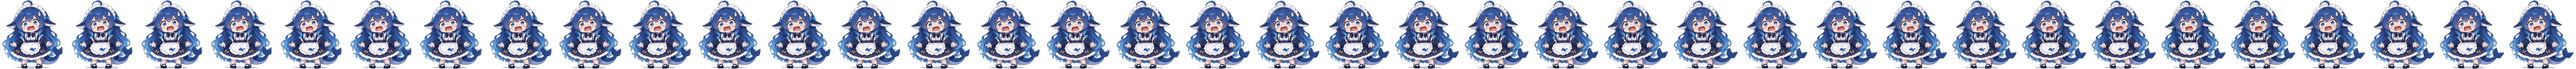
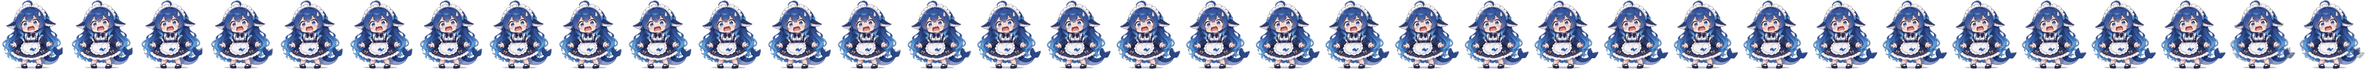
v1.9.5: score loop windows by seam-to-motion ratio at sprite scale
Measurement showed the loop 'pop' (first-vs-last frame diff 17-23)
exceeded the actual motion amplitude (14-20) on normal/daze clips -
each cycle visibly snapped. Now all candidate windows are scored at
96px sprite scale; calm picks the lowest seam/motion ratio, and when
a seam still exceeds motion the last two frames get a baked 60ms
crossfade toward frame 0. Final sheets: pop 4-9 vs motion 15-30 on
all six.

diff --git a/tools/make-sheets.py b/tools/make-sheets.py
@@ -1,5 +1,8 @@
 # -*- coding: utf-8 -*-
-# 精灵图流水线 v5：v4 基础上加时域降噪——压掉视频压缩噪声在低运动片段里的闪烁
+# 精灵图流水线 v6：以「接缝/动作 比」为核心的循环窗口搜索
+#   直接在 96px 成品尺度上评估每个候选窗口的接缝差与动作差，
+#   calm 选 比值最小 且 有动作；action 在接缝可接受里选动作最大。
+#   窗口上限放宽到 88 帧（~1.5 秒@59fps）以覆盖真实周期。
 import os, sys
 import imageio
 import numpy as np
@@ -9,7 +12,7 @@ from collections import deque
 D = r"C:\Users\sober\Downloads"
 OUT = os.path.dirname(os.path.abspath(__file__)).replace("\\tools", "")
 SIZE = 96
-MAX_FRAMES = 60
+MAX_FRAMES = 88
 JOBS = [
     ("大肥鱼-标准.mp4", "anim-df-normal.png", "calm"),
     ("大肥鱼-紧张.mp4", "anim-df-worry.png", "action"),
@@ -39,7 +42,6 @@ def key_white(img):
     return np.dstack([img, alpha])
 
 def temporal_smooth(frames):
-    """相邻三帧加权平均：压压缩噪声闪烁；59fps 源帧距极短，动作几乎无损"""
     out = []
     n = len(frames)
     for i in range(n):
@@ -49,66 +51,71 @@ def temporal_smooth(frames):
         out.append(np.clip(0.25 * a + 0.5 * b + 0.25 * c, 0, 255).astype(np.uint8))
     return out
 
+def to96(rgb):
+    return np.asarray(Image.fromarray(rgb).resize((SIZE, SIZE), Image.BILINEAR), dtype=np.float32)
+
 def bbox_of(rgba):
     ys, xs = np.where(rgba[:, :, 3] > 0)
     if len(xs) == 0: return None
     return xs.min(), ys.min(), xs.max(), ys.max()
 
-def find_loop(mp4, mode):
-    r = imageio.get_reader(os.path.join(D, mp4))
-    meta = r.get_meta_data()
-    dur = float(meta.get("duration") or 4.0)
-    grays = []
-    for f in r:
-        g = Image.fromarray(f).convert("L").resize((160, 160), Image.BILINEAR)
-        grays.append(np.asarray(g, dtype=np.float32))
-    r.close()
-    n = len(grays)
-    fps_real = max(1.0, n / dur)
-    G = np.stack(grays)
-    klo = max(8, int(fps_real * 0.6))
-    khi = min(n - 2, int(fps_real * 1.0), MAX_FRAMES)
+def find_loop(F, mode, fps_real):
+    """F: (n,96,96,3) float32 96px 帧。返回 (start,K)"""
+    n = len(F)
+    klo = max(8, int(fps_real * 0.5))
+    khi = min(n - 2, max(klo + 1, int(fps_real * 1.5)), MAX_FRAMES)
     if khi <= klo: klo = khi - 1
-    motion = np.abs(G[1:n] - G[0:n - 1]).mean(axis=(1, 2))
+    diff = np.abs(F[1:n] - F[0:n - 1]).mean(axis=(1, 2, 3))     # 每帧运动量(96px)
     best = None
     for K in range(klo, khi + 1):
-        d = np.abs(G[0:n - K] - G[K:n]).mean(axis=(1, 2))
-        mov = np.convolve(motion, np.ones(K) / K, mode="valid")
+        seam = np.abs(F[0:n - K] - F[K:n]).mean(axis=(1, 2, 3))  # 每个起点的接缝差
+        mov = np.convolve(diff, np.ones(K) / K, mode="valid")
         if mode == "calm":
-            s = int(d.argmin())
-            cand = (float(d[s]), float(mov[s]), s, K)
+            # 比值最小 = 接缝相对动作最不显眼；动作太小的不要
+            ratio = seam / np.maximum(mov, 1.5)
+            ratio[mov < 2.0] = 1e9
+            s = int(ratio.argmin())
+            cand = (float(ratio[s]), s, K)
             if best is None or cand[0] < best[0]:
-                best = cand + ("calm",)
+                best = cand + (float(seam[s]), float(mov[s]))
         else:
-            ok = d < 25
+            ok = seam < 25
             if ok.any():
                 idx = np.where(ok)[0]
                 s = int(idx[mov[idx].argmax()])
-                cand = (float(d[s]), float(mov[s]), s, K)
-                if best is None or cand[1] > best[1]:
-                    best = cand + ("action",)
+                cand = (float(mov[s]), s, K)
+                if best is None or cand[0] > best[0]:
+                    best = cand + (float(seam[s]), float(mov[s]))
     if best is None:
         s, K = int((n - 1) * 0.4), klo
-        best = (0.0, 0.0, s, K, "fallback")
-    seam, mov, s, K, used = best
-    idxs = list(range(s, s + K + 1))
-    seamf = float(np.abs(G[idxs[0]] - G[idxs[-1]]).mean())
-    print("  loop[%s]: start=%d K=%d(%.2fs) fps=%.1f 接缝=%.2f 运动=%.2f (n=%d)" %
-          (used, s, K, K / fps_real, fps_real, seamf, mov, n))
-    return idxs, fps_real
+        best = (0.0, s, K, 0.0, 0.0)
+    if mode == "calm":
+        ratio, s, K, seam, mov = best
+    else:
+        mov, s, K, seam = best[0], best[1], best[2], best[3]
+    return s, K, float(seam), float(mov)
 
 def process(mp4, out_name, mode):
     print(out_name)
-    idxs, fps_real = find_loop(mp4, mode)
-    want = set(idxs)
-    frames = []
+    # 读全帧，96px 评分用 + 全帧留源
     r = imageio.get_reader(os.path.join(D, mp4))
-    for i, f in enumerate(r):
-        if i in want:
-            frames.append(key_white(np.asarray(f)))
-            if len(frames) == len(idxs): break
+    meta = r.get_meta_data()
+    dur = float(meta.get("duration") or 4.0)
+    small, full = [], []
+    for f in r:
+        small.append(to96(f))
+        full.append(np.asarray(f))
     r.close()
-    assert len(frames) == len(idxs), "抽帧数量不足"
+    n = len(small)
+    fps_real = max(1.0, n / dur)
+    F = np.stack(small)
+    s, K, seam, mov = find_loop(F, mode, fps_real)
+    print("  loop: start=%d K=%d(%.2fs) fps=%.1f 接缝=%.1f 动作=%.1f 比=%.2f" %
+          (s, K, K / fps_real, fps_real, seam, mov, seam / max(mov, 0.01)))
+    idxs = list(range(s, s + K + 1))
+    frames = []
+    for i in idxs:
+        frames.append(key_white(full[i]))
     frames = temporal_smooth(frames)
     u = [10**9, 10**9, -1, -1]
     for f in frames:
@@ -127,10 +134,27 @@ def process(mp4, out_name, mode):
         oy, ox = (side - ch) // 2, (side - cw) // 2
         canvas[oy:oy + ch, ox:ox + cw] = crop
         tiles.append(Image.fromarray(canvas).resize((SIZE, SIZE), Image.LANCZOS))
+
+    # 接缝残余过大（>动作）时，尾帧向首帧交叉溶合，把跳变化成 60ms 快速过渡
+    f0 = tiles[0]
+    if len(tiles) >= 3 and seam > mov:
+        for k, w in ((-2, 0.35), (-1, 0.7)):
+            a = np.asarray(tiles[k], dtype=np.float32)
+            b = np.asarray(f0, dtype=np.float32)
+            tiles[k] = Image.fromarray(np.clip(a * (1 - w) + b * w, 0, 255).astype(np.uint8))
+        print("  (接缝>动作，已烘焙尾部 2 帧交叉溶合)")
+
     sheet = Image.new("RGBA", (SIZE * len(tiles), SIZE), (0, 0, 0, 0))
     for i, t in enumerate(tiles): sheet.paste(t, (i * SIZE, 0))
     sheet.save(os.path.join(OUT, out_name))
-    print("  -> %s (%dx%d, %d 帧, 17ms/帧)" % (out_name, cw, ch, len(tiles)))
+    print("  -> %s (%dx%d, %d 帧)" % (out_name, cw, ch, len(tiles)))
+
+    # 成品实测：首尾差 vs 中段动作差
+    fa = np.asarray(tiles[0], dtype=np.float64)
+    fl = np.asarray(tiles[-1], dtype=np.float64)
+    fm = np.asarray(tiles[len(tiles) // 2], dtype=np.float64)
+    mask = np.minimum(fa[:, :, 3], fl[:, :, 3]) > 128
+    print("  实测: 首尾差=%.1f 中段动作=%.1f" % (np.abs(fa - fl)[mask].mean(), np.abs(fa - fm)[mask].mean()))
 
 for mp4, out, mode in JOBS:
     process(mp4, out, mode)
